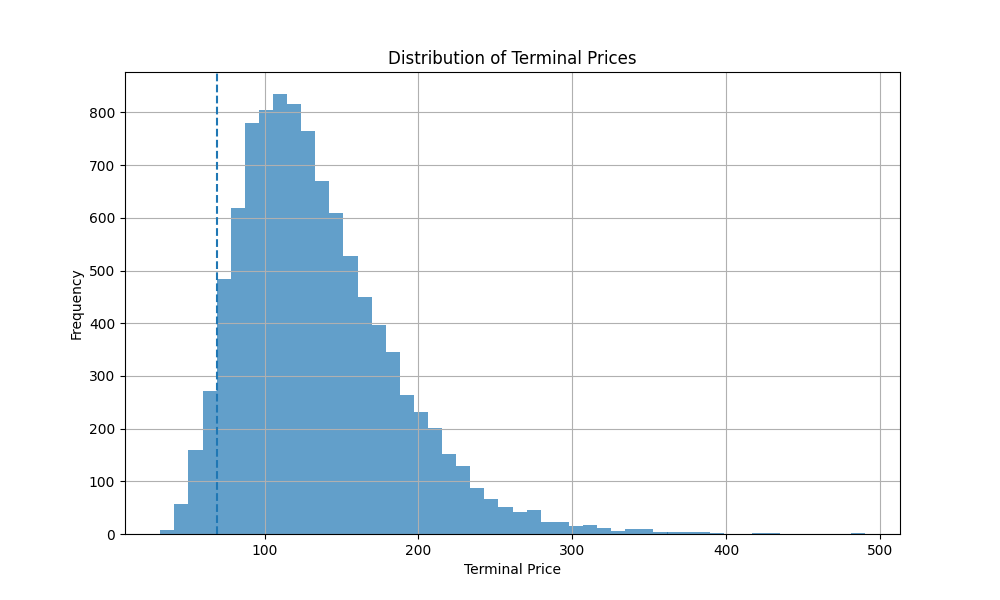
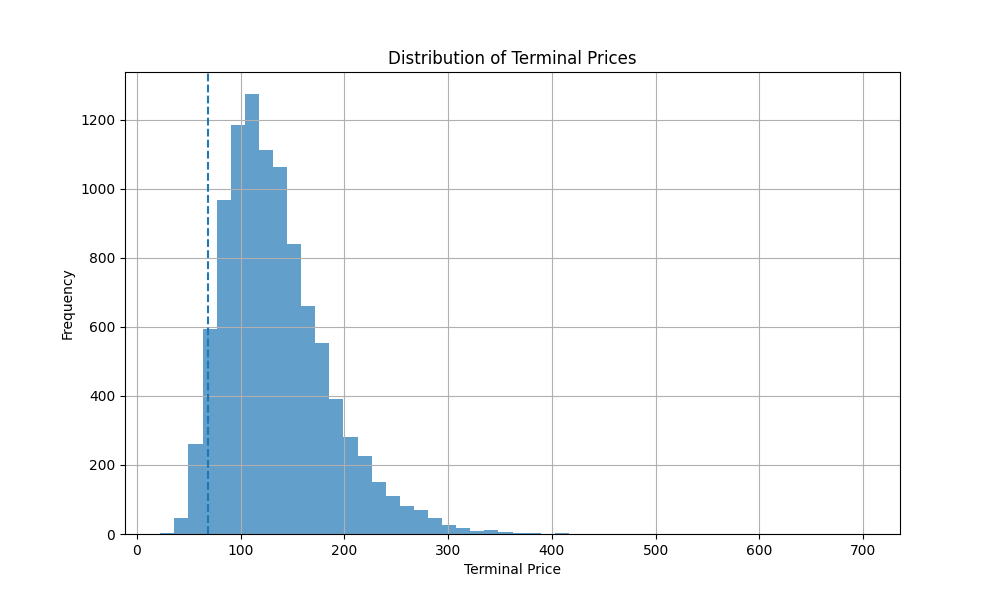
graph optimised

diff --git a/main.py b/main.py
@@ -1,4 +1,7 @@
 import yaml
+import numpy as np
+import matplotlib.pyplot as plt
+
 from src.data.data_loader import DataLoader
 from src.simulation.gbm import GBMSimulator
 from src.risk.risk_metrics import RiskMetrics
@@ -7,20 +10,57 @@ from src.pricing.black_scholes import BlackScholes
 from src.visualization.plotter import Plotter
 
 
+# -----------------------------------
+# Load YAML Configuration
+# -----------------------------------
 def load_config():
     with open("config/config.yaml", "r") as file:
         return yaml.safe_load(file)
 
 
+# -----------------------------------
+# Convergence Plot
+# -----------------------------------
+def convergence_plot(payoffs, bs_price):
+
+    running_prices = []
+    simulation_counts = []
+
+    cumulative_sum = 0.0
+
+    for i in range(len(payoffs)):
+        cumulative_sum += payoffs[i]
+        current_price = cumulative_sum / (i + 1)
+
+        if (i + 1) % 100 == 0:
+            running_prices.append(current_price)
+            simulation_counts.append(i + 1)
+
+    plt.figure()
+    plt.plot(simulation_counts, running_prices)
+    plt.axhline(y=bs_price)
+    plt.xlabel("Number of Simulations")
+    plt.ylabel("Monte Carlo Price")
+    plt.title("Monte Carlo Convergence")
+    plt.show()
+
+
+# -----------------------------------
+# MAIN EXECUTION
+# -----------------------------------
 def main():
+
     config = load_config()
 
-    # Step 1: Load Data
+    # -----------------------------------
+    # 1. Load Historical Data
+    # -----------------------------------
     loader = DataLoader(
         config["ticker"],
         config["start_date"],
         config["end_date"]
     )
+
     params = loader.estimate_parameters()
 
     mu = params["mu"]
@@ -31,78 +71,81 @@ def main():
     print(f"Estimated σ: {sigma}")
     print(f"Current Price S0: {S0}")
 
-    # Step 2: Simulate GBM
-       # ----------------------------
-    # Real-World Simulation (Risk)
-    # ----------------------------
+    # Extract pricing params
+    r = config["risk_free_rate"]
+    T = config["horizon_years"]
+    K = config["strike_price"]
+
+    # -----------------------------------
+    # 2. Real-World Simulation (Risk)
+    # -----------------------------------
     simulator_real = GBMSimulator(
         S0=S0,
-        drift=mu,  # historical drift
+        drift=mu,
         sigma=sigma,
-        T=config["horizon_years"],
+        T=T,
         steps=config["time_steps"],
         simulations=config["simulations"]
     )
 
     paths_real = simulator_real.simulate()
-
     print(f"Simulated paths shape: {paths_real.shape}")
 
-
-    # Step 3: Risk Metrics
+    # -----------------------------------
+    # 3. Risk Metrics
+    # -----------------------------------
     risk = RiskMetrics(config["confidence_level"])
     var = risk.compute_var(paths_real)
     cvar = risk.compute_cvar(paths_real)
-        # ---------------------------------
-    # Risk-Neutral Simulation (Pricing)
-    # ---------------------------------
-    simulator_rn = GBMSimulator(
-        S0=S0,
-        drift=config["risk_free_rate"],  # risk-neutral drift
-        sigma=sigma,
-        T=config["horizon_years"],
-        steps=config["time_steps"],
-        simulations=config["simulations"]
-    )
-
-    paths_rn = simulator_rn.simulate()
-    terminal_prices = paths_rn[-1]
-
 
     print(f"VaR ({config['confidence_level']*100}%): {var}")
     print(f"CVaR: {cvar}")
 
-    # Step 4: Option Pricing
-    terminal_prices = paths_rn[-1]
-
-
-    mc_pricer = MonteCarloPricer(
-        config["risk_free_rate"],      
-        config["strike_price"]
-    ) 
-
-    mc_results = mc_pricer.price_call(terminal_prices, config["horizon_years"])
-
-
-    bs = BlackScholes(
-        S0,
-        config["strike_price"],
-        config["risk_free_rate"],
-        sigma,
-        config["horizon_years"]
+    # -----------------------------------
+    # 4. Risk-Neutral Simulation (Pricing)
+    # -----------------------------------
+    simulator_rn = GBMSimulator(
+        S0=S0,
+        drift=r,  # risk-neutral drift
+        sigma=sigma,
+        T=T,
+        steps=config["time_steps"],
+        simulations=config["simulations"]
     )
 
+    paths_rn = simulator_rn.simulate(antithetic=True)
+
+
+    # Terminal prices (last row)
+    terminal_prices = paths_rn[-1, :]
+
+    # Discounted Payoffs
+    payoffs = np.exp(-r * T) * np.maximum(terminal_prices - K, 0)
+
+    # -----------------------------------
+    # 5. Monte Carlo Pricing
+    # -----------------------------------
+    mc_pricer = MonteCarloPricer(r, K)
+    mc_results = mc_pricer.price_call(terminal_prices, T)
+
+    # -----------------------------------
+    # 6. Black-Scholes Pricing
+    # -----------------------------------
+    bs = BlackScholes(S0, K, r, sigma, T)
     bs_call = bs.call_price()
 
     print(f"Monte Carlo Call Price: {mc_results['price']}")
     print(f"Standard Error: {mc_results['std_error']}")
     print(f"95% CI: [{mc_results['ci_lower']}, {mc_results['ci_upper']}]")
     print(f"Black-Scholes Call Price: {bs_call}")
-    # Step 5: Visualization
+
+    # -----------------------------------
+    # 7. Visualizations
+    # -----------------------------------
     Plotter.plot_price_paths(paths_real, num_paths=100)
     Plotter.plot_terminal_distribution(terminal_prices, var)
+    convergence_plot(payoffs, bs_call)
+
 
 if __name__ == "__main__":
     main()
-
- 

diff --git a/src/simulation/gbm.py b/src/simulation/gbm.py
@@ -28,3 +28,25 @@ class GBMSimulator:
         paths = self.S0 * np.exp(log_paths)
 
         return paths
+    def simulate(self, antithetic=False):
+
+        dt = self.T / self.steps
+
+        if antithetic:
+            half_sims = self.simulations // 2
+            Z = np.random.normal(size=(self.steps, half_sims))
+            Z = np.concatenate((Z, -Z), axis=1)
+        else:
+            Z = np.random.normal(size=(self.steps, self.simulations))
+
+        paths = np.zeros((self.steps + 1, Z.shape[1]))
+        paths[0] = self.S0
+
+        for t in range(1, self.steps + 1):
+            paths[t] = paths[t-1] * np.exp(
+                (self.drift - 0.5 * self.sigma**2) * dt
+                + self.sigma * np.sqrt(dt) * Z[t-1]
+            )
+
+        return paths
+
